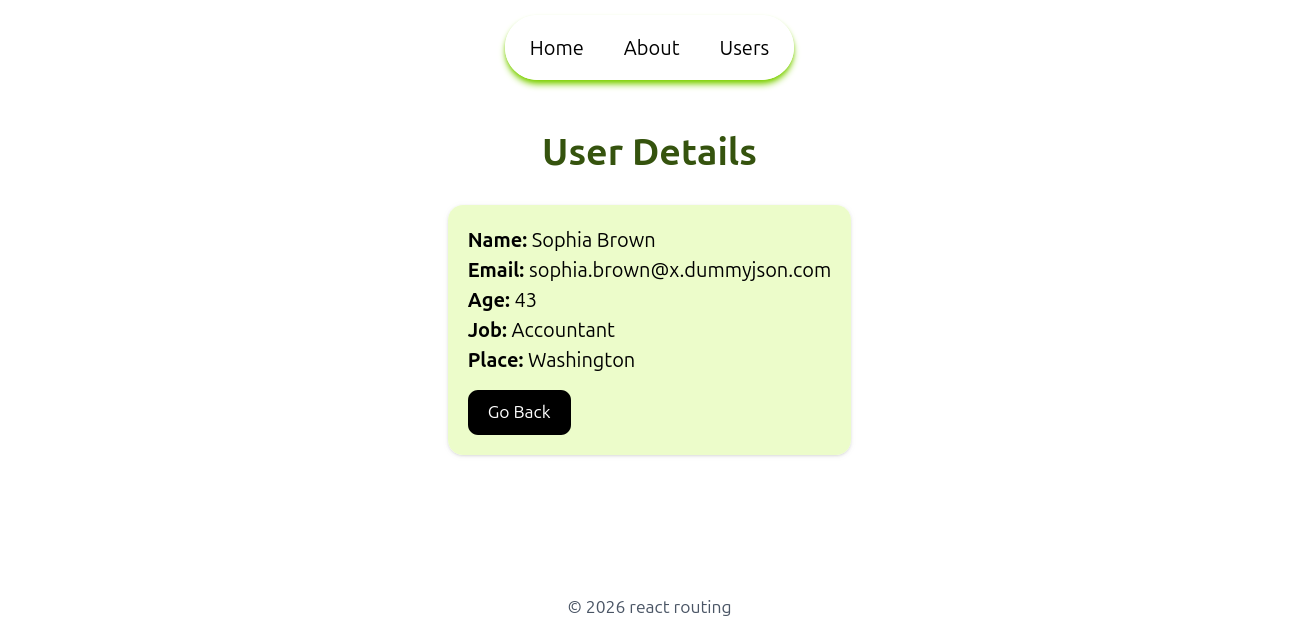
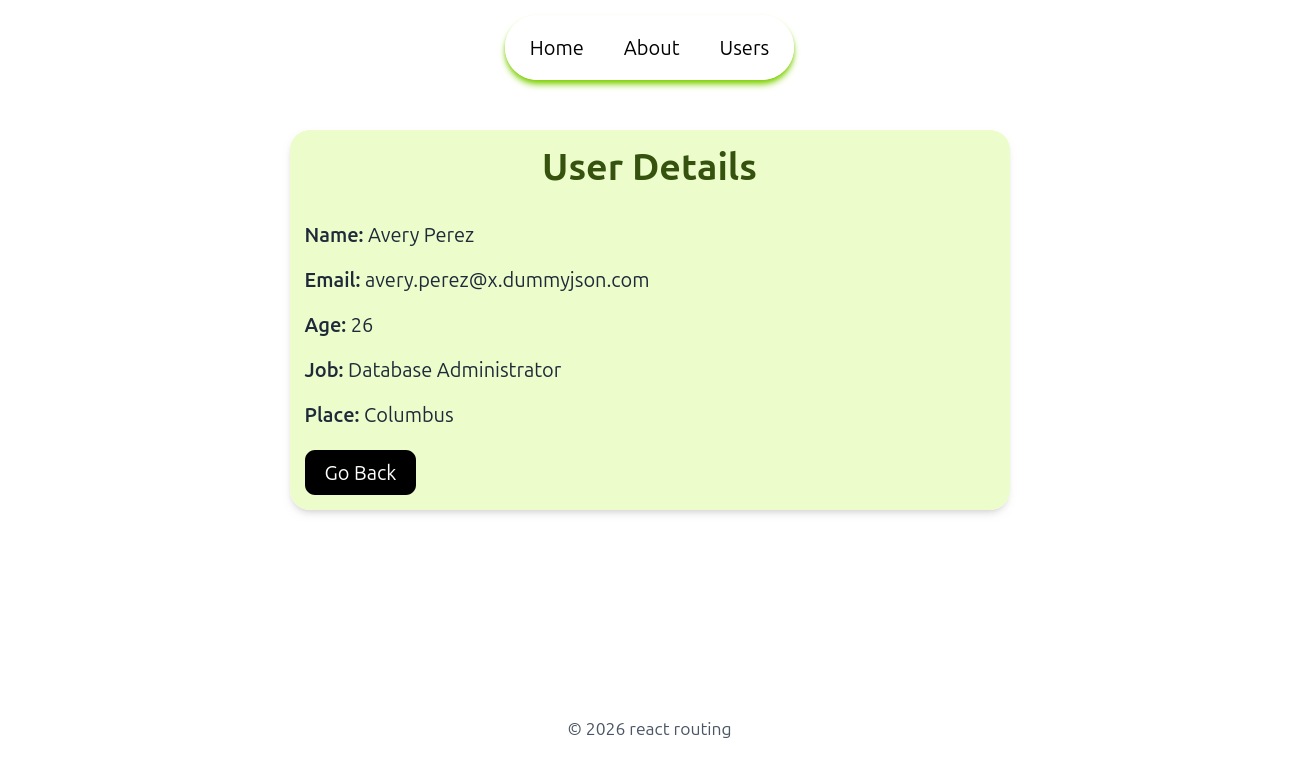
a little bit changes

Changed region(s): [[0.2157, 0.0611, 0.8012, 0.7331], [0.4314, 0.9469, 0.5547, 1.0]]

diff --git a/src/pages/User.jsx b/src/pages/User.jsx
@@ -1,31 +1,54 @@
-import { useParams } from "react-router-dom";
-import { Link, useLoaderData } from "react-router-dom";
+import { useParams, Link, useLoaderData } from "react-router-dom";
 
 const User = () => {
   const { type } = useParams();
-  const user = useLoaderData(); 
-  
+  const user = useLoaderData();
+
   return (
-    <div className="flex flex-col items-center mt-10 px-4">
-      <h2 className="text-3xl text-lime-900 font-bold mb-6">User Details</h2>
-      <div className="max-w-4xl p-4 bg-lime-100 rounded-xl shadow hover:shadow-md transition flex flex-col">
+    <div className="min-h-screen flex items-start justify-center px-4 sm:px-6 lg:px-8 py-10">
+      <div className="w-xl max-w-md sm:max-w-xl md:max-w-2xl lg:max-w-3xl bg-lime-100 rounded-2xl shadow-md hover:shadow-lg transition p-3">
 
-        <p><b>Name:</b> {user.name ?? `${user.firstName} ${user.lastName}` }</p>
-        <p><b>Email: </b>{user.email}</p>
-        <p><b>Age:</b> {user.age}</p>
-        <p><b>Job:</b> {user.job ?? user.company.title}</p>
-        <p><b>Place:</b> {user.place ?? user.address.city}</p>
+        <h2 className="text-2xl sm:text-3xl font-bold text-lime-900 text-center mb-6">
+          User Details
+        </h2>
 
-        <Link
-          to={type === 'api' ? '/users/api' : '/users'}
-          className="mt-3 bg-black text-white text-sm px-4 py-2 rounded-lg inline-flex w-fit"
-        >
-          Go Back
-        </Link>
+        <div className="space-y-3 text-sm sm:text-base text-gray-800">
+          <p>
+            <span className="font-semibold">Name:</span>{" "}
+            {user.name ?? `${user.firstName} ${user.lastName}`}
+          </p>
+
+          <p>
+            <span className="font-semibold">Email:</span> {user.email}
+          </p>
+
+          <p>
+            <span className="font-semibold">Age:</span> {user.age}
+          </p>
+
+          <p>
+            <span className="font-semibold">Job:</span>{" "}
+            {user.job ?? user.company?.title}
+          </p>
+
+          <p>
+            <span className="font-semibold">Place:</span>{" "}
+            {user.place ?? user.address?.city}
+          </p>
+        </div>
+
+        <div className="mt-4 flex justify-center sm:justify-start">
+          <Link
+            to={type === "api" ? "/users/api" : "/users"}
+            className="bg-black text-white text-sm sm:text-base px-4 py-1.5 rounded-lg hover:bg-gray-900 transition w-full sm:w-auto text-center"
+          >
+            Go Back
+          </Link>
+        </div>
 
       </div>
     </div>
   );
-}
+};
 
-export default User
+export default User;
